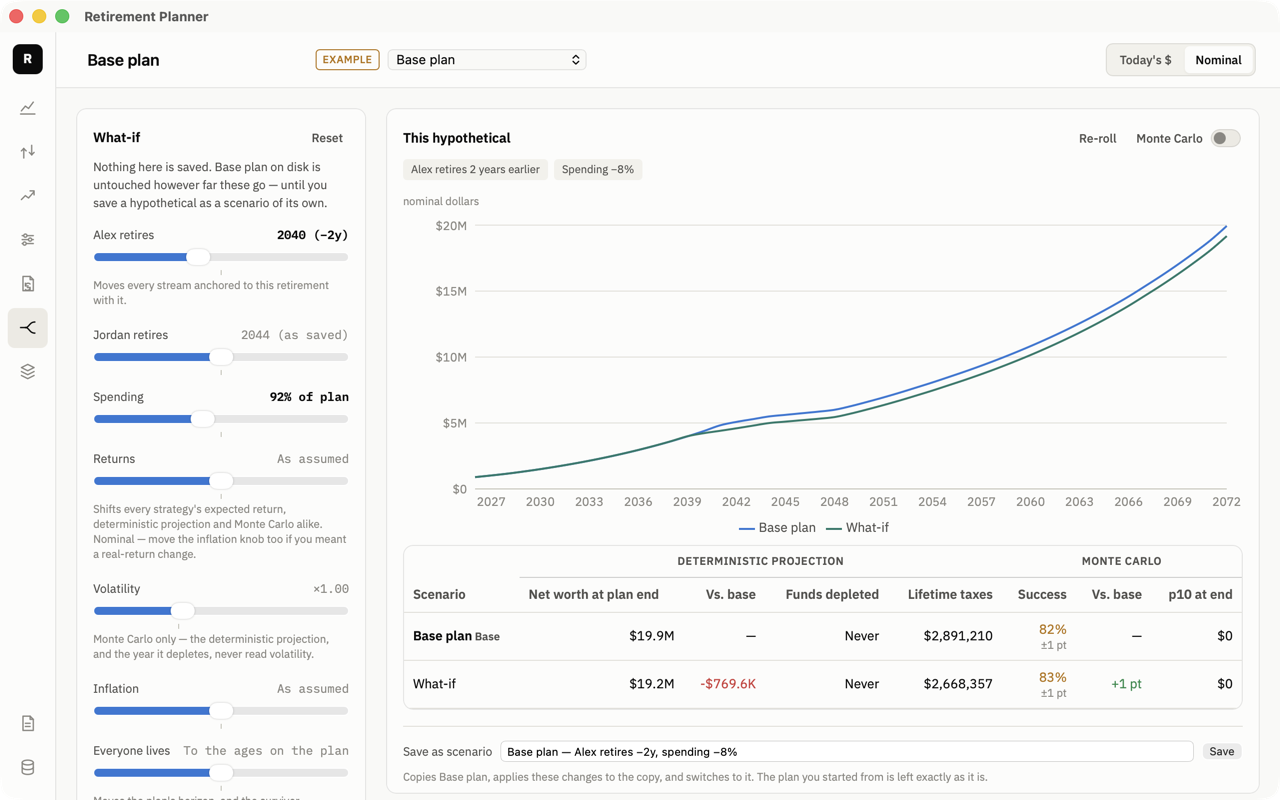
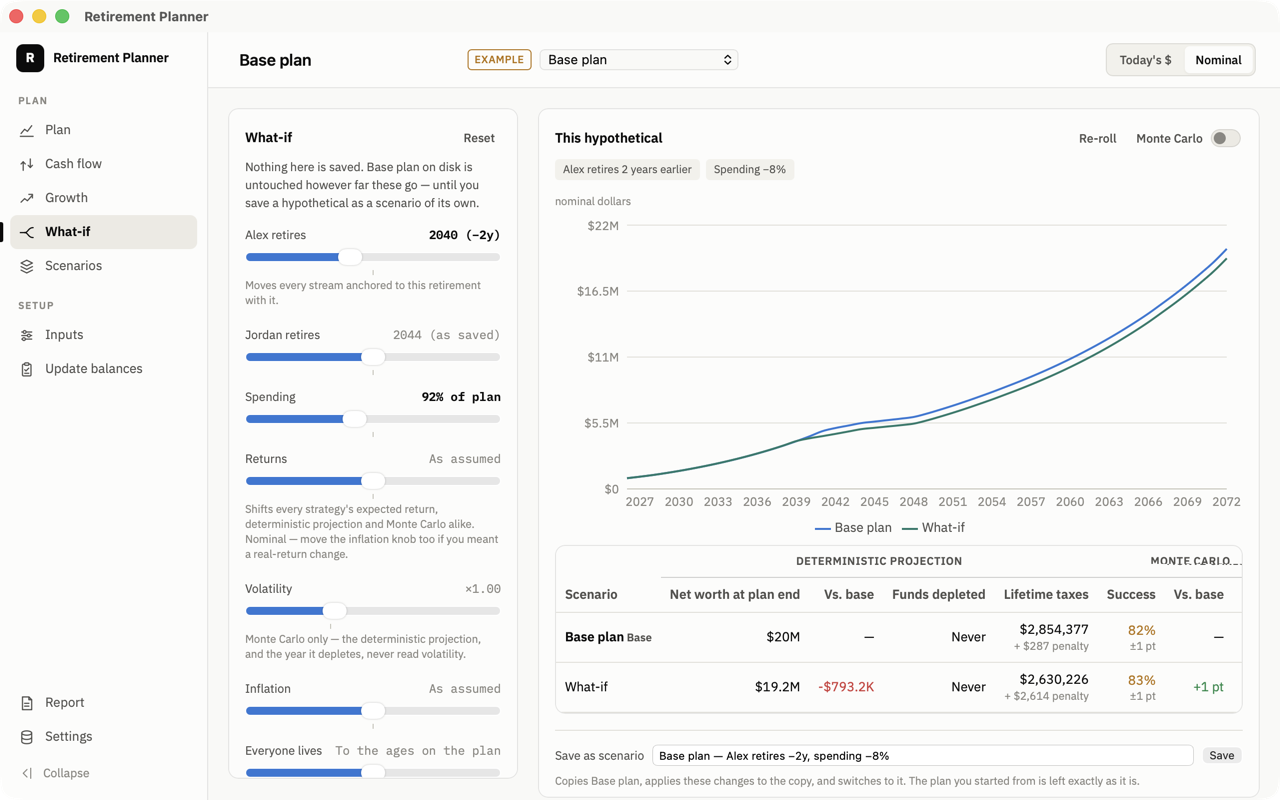
Prepare v1.1 (#164)
Bump the version to 1.1.0 in package.json, Cargo.toml and
tauri.conf.json, and retake the What-if README screenshot.

Also let the pinned What-if knob column scroll on its own: at the
default 1280x800 window it was already cut off below "Everyone lives",
so the new Social Security knob could not be reached at all.

diff --git a/src/App.css b/src/App.css
@@ -2545,6 +2545,13 @@ button.remove:disabled {
   grid-row: 1 / span 2;
   position: sticky;
   top: 0;
+  /* Pinned, the column never scrolls with the page, so a column taller than
+     the window would hide its last knobs for good. Held to the height left
+     under the 57px topbar and the screen's 20px padding above and below, it
+     scrolls on its own instead. */
+  max-height: calc(100vh - 97px);
+  overflow-y: auto;
+  overscroll-behavior: contain;
 }
 
 @media (max-width: 1100px) {
@@ -2554,6 +2561,7 @@ button.remove:disabled {
 
   .what-if-knobs {
     position: static;
+    max-height: none;
   }
 }
 /* Same content width with the labelled rail: see .why-fail-grid above. */

diff --git a/README.md b/README.md
@@ -55,14 +55,13 @@ success.](docs/screenshots/scenarios.png)
 
 **What-if.** A sandbox for questions you don't want to save yet: retire
 earlier, spend less, assume worse returns, higher inflation or a Social
-Security cut, and read the
-hypothetical against the plan it started from. Nothing is written until you
-save it as a scenario of its own.
+Security cut, and read the hypothetical against the plan it started from.
+Nothing is written until you save it as a scenario of its own.
 
 ![The What-if screen with sliders for retirement dates, spending, returns,
-volatility, inflation and life expectancy, comparing the Base plan to a
-hypothetical where Alex retires two years earlier and spending is cut to 92%:
-$769.6K less at plan end, and an 83% probability of success against the plan's
+volatility, inflation, life expectancy and Social Security, comparing the
+Base plan to a hypothetical where Alex retires two years earlier and spending is cut to 92%:
+$793.2K less at plan end, and an 83% probability of success against the plan's
 82%.](docs/screenshots/what-if.png)
 
 **Cash flow.** Money in above the line and money out below it, year by year,
